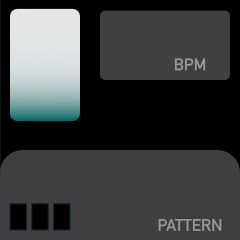
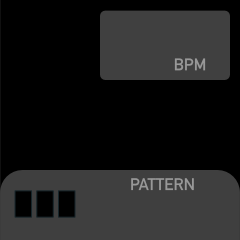
lint

diff --git a/display.py b/display.py
@@ -13,13 +13,13 @@ else:
 
 from PIL import Image, ImageDraw, ImageFont
 
-SCREEN_WIDTH = 240 
+SCREEN_WIDTH = 240
 SCREEN_HEIGHT = 240
+
 
 # implement an abstract display class that will be used by the main loop
 class Display:
     def __init__(self):
-
         self._setup_fonts()
         self._setup_display()
 
@@ -31,7 +31,7 @@ class Display:
         raise NotImplementedError
 
     def _setup_fonts(self):
-        self.regularFont = ImageFont.truetype("fonts/NotoSans-Regular.ttf", 24) 
+        self.regularFont = ImageFont.truetype("fonts/NotoSans-Regular.ttf", 24)
         self.boldFont = ImageFont.truetype("fonts/NotoSans-Bold.ttf", 32)
         self.smallBoldFont = ImageFont.truetype("fonts/NotoSans-Bold.ttf", 20)
 
@@ -46,24 +46,44 @@ class Display:
         self._draw_tempo_display(drum_machine, d)
         self._draw_pattern_display(drum_machine, d)
         self._draw_measures(drum_machine, d)
-#        self._draw_beats(drum_machine, d)
+        #        self._draw_beats(drum_machine, d)
         self.flip(None)
 
     def _draw_pattern_name(self, drum_machine, d):
-        d.text((10, 160), drum_machine.get_current_pattern_name(), font=self.regularFont, fill=(255, 255, 255))
+        d.text(
+            (10, 140),
+            drum_machine.get_current_pattern_name(),
+            font=self.smallBoldFont,
+            fill=(255, 255, 255),
+        )
 
     def _draw_tempo_display(self, drum_machine, d):
-        d.text((170, 18), "%d" % drum_machine.tempo, font=self.regularFont, fill=(255, 255, 255))
+        d.text(
+            (170, 18),
+            "%d" % drum_machine.tempo,
+            font=self.regularFont,
+            fill=(255, 255, 255),
+        )
 
         if not drum_machine.beat % 4 and drum_machine.state == "playing":
             tsColor = (255, 255, 0)
         else:
             tsColor = (128, 128, 128)
 
-        d.text((SCREEN_WIDTH/2-8, 30), "%s" % drum_machine.pattern_signature, font=self.regularFont, fill=tsColor)
+        d.text(
+            (SCREEN_WIDTH / 2 - 8, 30),
+            "%s" % drum_machine.pattern_signature,
+            font=self.regularFont,
+            fill=tsColor,
+        )
 
     def _draw_pattern_display(self, drum_machine, d):
-        d.text((180, 170), "%d" % drum_machine.current_pattern_idx, font=self.boldFont, fill=(255, 255, 255))
+        d.text(
+            (160, 190),
+            "%d" % drum_machine.current_pattern_idx,
+            font=self.boldFont,
+            fill=(255, 255, 255),
+        )
 
     def _draw_measures(self, drum_machine, d):
         for i, m in enumerate(drum_machine._current_pattern["measures"]):
@@ -74,7 +94,7 @@ class Display:
             else:
                 color = (128, 128, 128)
 
-            d.text((i*22+19, 85), "%s" % m, font=self.smallBoldFont, fill=color)
+            d.text((i * 22 + 17, 189), "%s" % m, font=self.smallBoldFont, fill=color)
 
     def _draw_beats(self, drum_machine, d):
         for i in range(0, drum_machine.pattern_length):
@@ -83,7 +103,7 @@ class Display:
             bar_height = 20
             bar_y_position = SCREEN_HEIGHT - bar_height - 10
 
-            x = 8 + i * (bar_width+bar_spacing)
+            x = 8 + i * (bar_width + bar_spacing)
             y = bar_y_position
             x2 = x + bar_width
             y2 = y + bar_height
@@ -91,12 +111,11 @@ class Display:
 
             if i == drum_machine.beat:
                 d.rectangle([x, y, x2, y2], outline=(0, 0, 0), fill=(0, 255, 255))
-            
 
         if not drum_machine.beat % 4 and drum_machine.state == "playing":
-            x1 = SCREEN_WIDTH/2 - 4
+            x1 = SCREEN_WIDTH / 2 - 4
             y1 = 32 - 4
-            x2 = SCREEN_WIDTH/2 + 4
+            x2 = SCREEN_WIDTH / 2 + 4
             y2 = 32 + 4
             d.ellipse([x1, y1, x2, y2], outline=(255, 255, 0), fill=(255, 255, 0))
 
@@ -107,17 +126,17 @@ class ST7735RDisplay(Display):
 
     def _setup_display(self):
         self.display = ST7789.ST7789(
-            height = SCREEN_HEIGHT,
-            width = SCREEN_WIDTH,
+            height=SCREEN_HEIGHT,
+            width=SCREEN_WIDTH,
             rotation=0,
             port=0,
             cs=0,  # BG_SPI_CS_BACK or BG_SPI_CS_FRONT
             dc=25,
             rst=27,
-            backlight=24,               # 18 for back BG slot, 19 for front BG slot.
+            backlight=24,  # 18 for back BG slot, 19 for front BG slot.
             spi_speed_hz=80 * 1000 * 1000,
             offset_left=0,
-            offset_top=0
+            offset_top=0,
         )
         self.display.begin()
 
@@ -125,18 +144,24 @@ class ST7735RDisplay(Display):
         self.display.display(drawingContext)
 
 
+SIM_WIDTH = 595
+SIM_HEIGHT = 280
+
 
 class PyGameDisplay(Display):
     screen = None
 
     def _setup_display(self):
         print("pygame display")
-        self.screen = pygame.display.set_mode((SCREEN_WIDTH, SCREEN_HEIGHT))
+        self.screen = pygame.display.set_mode((SIM_WIDTH, SIM_HEIGHT))
         pygame.display.set_caption("Camina Drummer")
+        self.screen.blit(pygame.image.load("assets/sim-background.png"), (0, 0))
 
     def flip(self, drawingContext):
-        img = pygame.image.frombuffer(self.buffer.tobytes(), self.buffer.size, self.buffer.mode)
-        self.screen.blit(img, (0, 0))
+        img = pygame.image.frombuffer(
+            self.buffer.tobytes(), self.buffer.size, self.buffer.mode
+        )
+        self.screen.blit(img, (175, 20))
         pygame.display.flip()
 
     def capture_screenshot(self):

diff --git a/drummer.py b/drummer.py
@@ -11,6 +11,7 @@ try:
 except ImportError:
     print("gpiozero not found")
 
+
 class GpioZeroController:
     def __init__(self):
         self.jUp = Button(6)
@@ -22,20 +23,22 @@ class GpioZeroController:
         self.key2 = Button(20)
         self.key3 = Button(16)
 
+
 def handle_events(drum_machine, display, controller):
     for event in pygame.event.get():
         if event.type == pygame.QUIT:
             drum_machine.stop()
             return False
-        
-    
+
     if controller.key3.is_pressed:
         if drum_machine.state == "playing":
             drum_machine.stop()
         else:
             drum_machine.start()
     if controller.jRight.is_pressed:
-        if drum_machine.current_pattern_idx < len(drum_machine.pattern_loader.patterns["patterns"]):
+        if drum_machine.current_pattern_idx < len(
+            drum_machine.pattern_loader.patterns["patterns"]
+        ):
             drum_machine.current_pattern_idx += 1
         else:
             drum_machine.current_pattern_idx = 1
@@ -43,8 +46,10 @@ def handle_events(drum_machine, display, controller):
     if controller.jLeft.is_pressed:
         if drum_machine.current_pattern_idx > 1:
             drum_machine.current_pattern_idx -= 1
-        else :
-            drum_machine.current_pattern_idx = len(drum_machine.pattern_loader.patterns["patterns"])
+        else:
+            drum_machine.current_pattern_idx = len(
+                drum_machine.pattern_loader.patterns["patterns"]
+            )
         drum_machine.switch_pattern(drum_machine.current_pattern_idx)
     if controller.jUp.is_pressed:
         drum_machine.set_tempo(drum_machine.tempo + 1)
@@ -52,6 +57,7 @@ def handle_events(drum_machine, display, controller):
         drum_machine.set_tempo(drum_machine.tempo - 1)
 
     return True
+
 
 def main():
     running = True
@@ -69,7 +75,7 @@ def main():
     drum_machine = DrumMachine()
     drum_machine.load_patterns()
     drum_machine.start()
-    
+
     print("%r" % display)
     while running:
         delta_time = clock.tick(60)
@@ -84,8 +90,8 @@ def main():
                 if event.type == pygame.QUIT:
                     running = False
 
-
     pygame.quit()
+
 
 if __name__ == "__main__":
     main()
